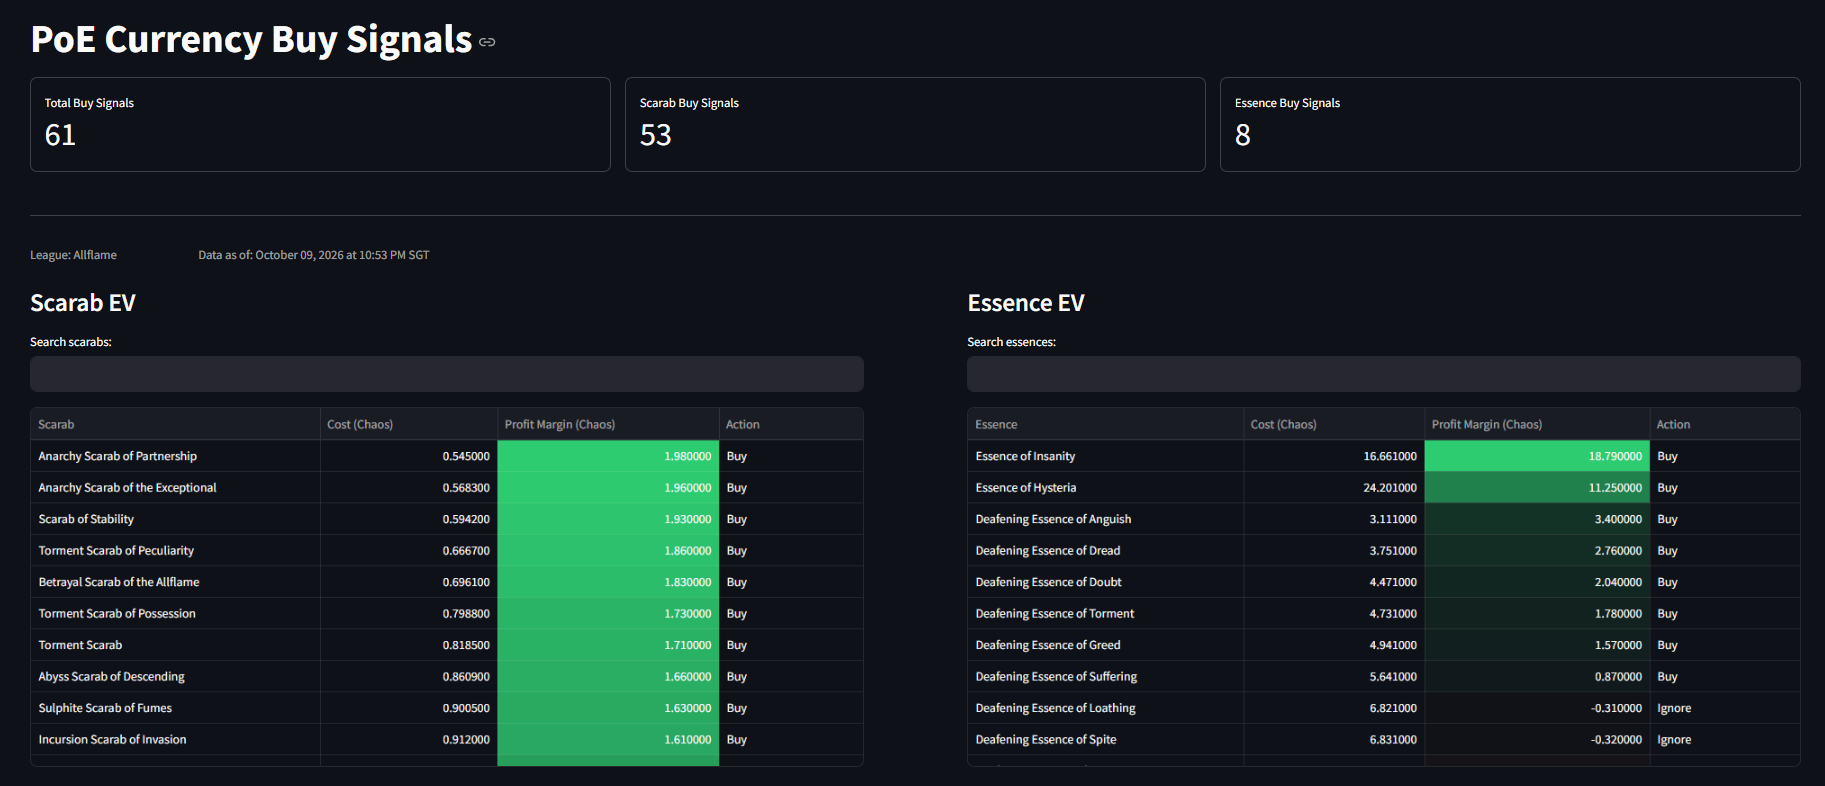
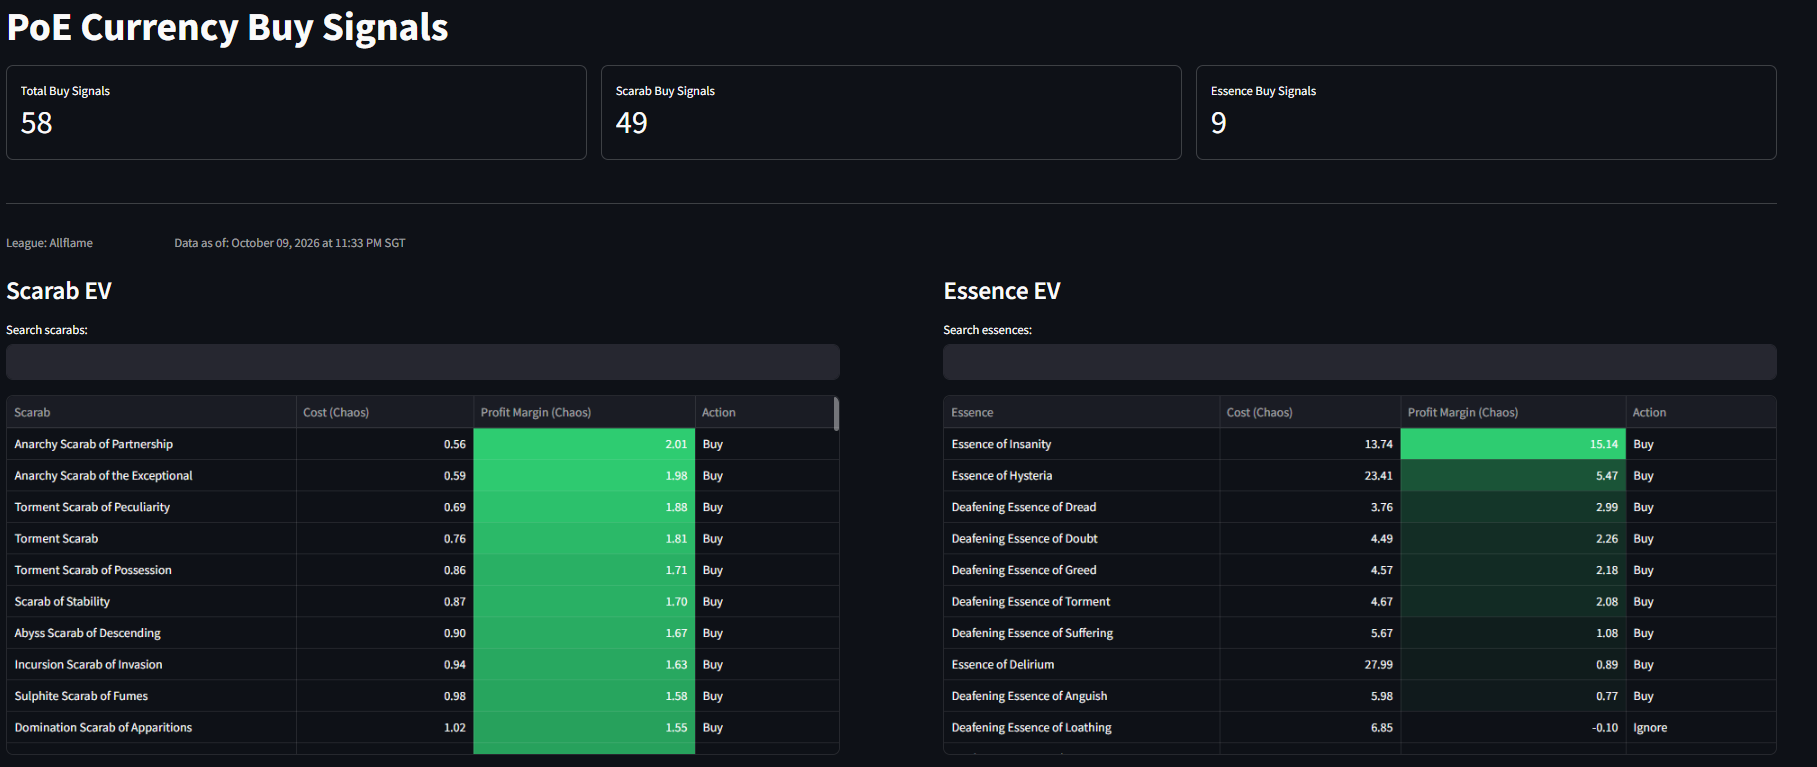
Restructure README and refresh screenshots

diff --git a/README.md b/README.md
@@ -1,35 +1,32 @@
-PoE Combine EV
+# PoE Combine EV
 
-A batch data pipeline that detects pricing inefficiencies in a live marketplace.
+![Python](https://img.shields.io/badge/Python-3776AB?logo=python&logoColor=white)
+![Databricks](https://img.shields.io/badge/Databricks-FF3621?logo=databricks&logoColor=white)
+![Streamlit](https://img.shields.io/badge/Streamlit-FF4B4B?logo=streamlit&logoColor=white)
 
-Path of Exile has an in-game economy where players trade different currencies at floating, player-set prices. 
+A scheduled Databricks pipeline that finds underpriced items in Path of Exile's player-driven market.
 
-Scarabs can be combined through a vendor recipe: trade in three of one item, receive one random item of the same type back. The outputs are random but the odds are calculated, so each input item has a computable expected value. Since prices float freely, items regularly trade below that expected value.
-
-Essences are re-rolled into another essence of the same category using Harvest lifeforce. Outcomes here are uniform within a category (normal essences only roll into normal essences, and so on), so EV is simply the average price across that category. A buying opportunity is available whenever the essence cost + lifeforce cost < expected output value
-
-
-This pipeline ingests live market prices every 15 minutes, computes EV per item, and surfaces the mispriced ones on a dashboard.
-
-The dashboard runs on Databricks Apps, which requires a Databricks sign-in, so it isn't publicly viewable. Screenshot below:
+**Pipeline:** poe.ninja API → Unity Catalog Volume → PySpark → Delta Lake → Streamlit dashboard, orchestrated by a Databricks Job every 15 minutes.
 
 ![Dashboard view](docs/dashboard.png)
-*Buy-signal counts, plus Scarab and Essence EV tables colored by profit margin. "Data as of" shows the latest pipeline snapshot, and the page auto-refreshes.*
 
-![Search filter](docs/search.png)
-*Each table has its own search box.*
+## What it does
 
-![Databricks job](docs/pipeline.png)
-*The Databricks Job: `run_ingest_py` feeds `run_transform`, scheduled every 15 minutes.*
+Path of Exile has an in-game economy where players trade currencies at floating, player-set prices. Two crafting mechanics turn items into random outputs with known odds, so each input has a computable expected value (EV). When an item trades below its EV, it's worth buying.
 
-Architecture
+- **Scarabs:** a vendor recipe trades three scarabs for one random scarab. EV comes from community-sourced drop weights, and a scarab is a buy when its price is below one third of the expected output value.
+- **Essences:** Harvest lifeforce re-rolls an essence into a random essence of the same category, with uniform odds. EV is the average price across the category, and an essence is a buy when its price plus the lifeforce cost is below that average.
+
+### How it works
+
+```
 poe.ninja API
      │
      ▼
 Python ingestion  ──────────►  Unity Catalog Volume  (raw JSON, current + historical)
      │                                   │
      │                                   ▼
-     │                          PySpark transform      (flatten, join weights, compute EV)
+     │                          PySpark transform      (join weights, compute EV)
      │                                   │
      │                                   ▼
      │                          Delta Lake tables       (scarab_ev, essence_ev)
@@ -39,33 +36,103 @@ Python ingestion  ──────────►  Unity Catalog Volume  (raw 
                                          ▼
                               Streamlit dashboard
                               (Databricks Apps, service principal auth)
+```
 
-Stack: Python · PySpark · Delta Lake · Unity Catalog · Databricks Jobs · Databricks Apps · Streamlit
+1. **Ingest** ([`ingest/ingest.py`](ingest/ingest.py)) pulls current prices from poe.ninja for scarabs, essences and currency, plus the scarab drop-weight dataset. It writes the raw JSON to a Unity Catalog Volume as a current snapshot and a timestamped historical copy.
+2. **Transform** ([`transform/transform.py`](transform/transform.py), a Databricks notebook) joins scarab prices to the drop weights for a probability-weighted EV, averages essence prices per category, and writes the results to Delta tables.
+3. **Dashboard** ([`dashboard/app.py`](dashboard/app.py)) is a Streamlit app on Databricks Apps that reads the Delta tables through a SQL warehouse.
 
-How it works
+## Why it's useful
 
-1. Ingest (ingest.py) pulls current prices from the poe.ninja API for scarabs, essences and currency, plus a static scarab drop-weight reference dataset. This file writes the raw JSON to a Unity Catalog Volume, and includes both a current snapshot and a timestamped historical copy so price history can accumulate over time.
+- **Live buy signals:** every scarab and essence is ranked by profit margin in chaos orbs and labeled *Buy* or *Ignore*.
+- **Fresh data without manual work:** the job runs every 15 minutes, and the dashboard checks for new data every minute, reloading only when it has changed.
+- **Price history:** every run keeps a timestamped raw snapshot, so history builds up for later analysis.
+- **Searchable tables:** each table has its own filter.
 
-2. Transform (PySpark notebook in Databricks) flattens the nested API response and computes EV separately per mechanic. Scarab prices are joined against the drop-weight dataset to derive probability-weighted EV, while essence EV is the average price within each category. The results are written to Delta tables in Unity Catalog.
+![Search filter](docs/search.png)
 
-3. Orchestration (Databricks Jobs) Ingest and Transform are run as two tasks in a single job scheduled every 15 mins, with transform dependent on ingestion succeeding.
+### Limitations
 
-4. Dashboard (Streamlit on Databricks Apps). Databricks Apps reads `app.py` and `app.yaml` directly from GitHub repo, which defines the launch command and the SQL warehouse path. We also use SQL editor to grant (`USE CATALOG`, `USE SCHEMA`, `SELECT`) so that it can read the Delta tables.
+- **Liquidity isn't modeled.** A thinly traded item can show a large margin that can't be acted on at the listed price.
+- **Signals aren't backtested** against later prices.
+- **Drop weights are inferred.** The game's developer doesn't publish them. They come from a community dataset of player-submitted vendor results, which can lag behind balance patches.
+- **Small essence category.** There are only four corrupted essences, so one price swing moves that category's EV noticeably.
 
+## Getting started
 
-A note on the drop-weight data
+### Prerequisites
 
-The EV calculation depends on knowing how likely each output item is. These probabilities are not published by the game's developer, and come from a community-maintained dataset built by aggregating hundreds of thousands of player-submitted vendor results. The weights are statistically inferred, and the actual weights could differ significantly. The weights are re-fetched from the community source on every pipeline run, but that dataset is itself a snapshot maintained by its authors, so it can lag behind balance patches that change drop pools.
+- A Databricks workspace. [Free Edition](https://docs.databricks.com/aws/en/getting-started/free-edition-limitations) is enough.
+- A SQL warehouse in that workspace. Free Edition includes one.
+- A fork of this repo.
 
+### Setup
 
-Prices, by contrast, are pulled live from poe.ninja on every run and are as current as the source allows.
+1. **Clone your fork into Databricks.** Go to **Workspace → Create → Git folder**.
+2. **Create the schema and volume.** In the SQL editor, run:
+   ```sql
+   CREATE SCHEMA IF NOT EXISTS workspace.poe_economy;
+   CREATE VOLUME IF NOT EXISTS workspace.poe_economy.raw_data;
+   ```
+3. **Create the job.** Go to **Jobs & Pipelines → Create job** and add two tasks:
+   - `run_ingest_py`: type *Python script*, path `ingest/ingest.py` in your Git folder.
+   - `run_transform`: type *Notebook*, path `transform/transform.py`, depending on `run_ingest_py`.
 
-Repo layout
+   Under **Schedules & Triggers**, add a schedule that runs every 15 minutes.
+
+   ![Databricks job](docs/pipeline.png)
+4. **Run the job once** with **Run now**, so the `scarab_ev` and `essence_ev` tables exist.
+5. **Point the app at your SQL warehouse.** Copy the warehouse's HTTP path from **SQL Warehouses → your warehouse → Connection details**, and set it in [`dashboard/app.yaml`](dashboard/app.yaml):
+   ```yaml
+   env:
+     - name: 'DATABRICKS_HTTP_PATH'
+       value: '/sql/1.0/warehouses/<your-warehouse-id>'
+   ```
+6. **Create and deploy the app.** Go to **Compute → Apps → Create app**, and deploy with the `dashboard/` folder from your Git folder as the source. Make sure the app's service principal can use the SQL warehouse.
+7. **Give the app read access.** Replace `<app-service-principal>` with the app's service principal ID and run:
+   ```sql
+   GRANT USE CATALOG ON CATALOG workspace TO `<app-service-principal>`;
+   GRANT USE SCHEMA ON SCHEMA workspace.poe_economy TO `<app-service-principal>`;
+   GRANT SELECT ON SCHEMA workspace.poe_economy TO `<app-service-principal>`;
+   ```
+
+No secrets are needed in the repo. The job uses the workspace's built-in authentication, and the app authenticates as its service principal.
+
+### Usage
+
+- **Dashboard:** open the app from **Compute → Apps**. Databricks Apps requires a Databricks sign-in, so it isn't publicly viewable. On Free Edition, apps stop after 24 hours, so restart it from the app page if needed.
+- **Query the results directly:**
+  ```sql
+  SELECT id, total_cost, profit_margin_chaos
+  FROM workspace.poe_economy.scarab_ev
+  WHERE Action = 'Buy'
+  ORDER BY profit_margin_chaos DESC;
+  ```
+  `essence_ev` has the same columns.
+- **Refresh on demand:** click **Run now** on the job.
+
+### Project structure
+
+```
 ingest/
   ingest.py          # API pull → Unity Catalog Volume
+transform/
+  transform.py       # Databricks notebook: compute EV → Delta tables
 dashboard/
   app.py             # Streamlit dashboard
-  app.yaml           # Databricks Apps runtime config
-  requirements.txt
+  app.yaml           # Databricks Apps runtime config (SQL warehouse path)
+  requirements.txt   # Dashboard dependencies
+docs/                # README screenshots
+```
 
-Secrets are not committed. The deployed app authenticates via a Databricks service principal; local development uses a gitignored .env.
+## Getting help
+
+- **Bugs and questions:** open an [issue](https://github.com/Winisition/poe-combine-ev/issues).
+- **Databricks docs:** [Databricks Apps](https://docs.databricks.com/aws/en/dev-tools/databricks-apps/) · [Jobs](https://docs.databricks.com/aws/en/jobs/) · [Free Edition limitations](https://docs.databricks.com/aws/en/getting-started/free-edition-limitations)
+- **Data sources:** prices from [poe.ninja](https://poe.ninja), scarab drop weights from [xddbsns.com](https://xddbsns.com).
+
+## Maintainers and contributing
+
+Maintained by [@Winisition](https://github.com/Winisition).
+
+Contributions are welcome. Open an issue to discuss a change before sending a pull request.
